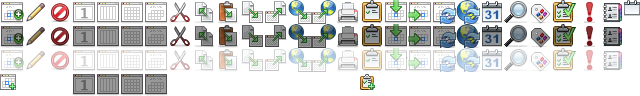
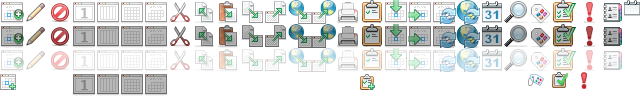
Fix bug 470824 - messagereader-style buttons in Tasks view are different heights on Windows. r=philipp

diff --git a/calendar/base/content/calendar-task-view.js b/calendar/base/content/calendar-task-view.js
@@ -60,6 +60,9 @@ var taskDetailsView = {
         var item = document.getElementById("calendar-task-tree").currentTask;
         if (displayElement("calendar-task-details-container", item != null) &&
             displayElement("calendar-task-view-splitter", item != null)) {
+
+            this._initializeToolbar();
+
             displayElement("calendar-task-details-title-row", true);
             document.getElementById("calendar-task-details-title").value =
                 (item.title ? item.title.replace(/\n/g, ' ') : "");
@@ -172,7 +175,45 @@ var taskDetailsView = {
                 }
             }
         }
-    }
+    },
+
+    /**
+     * Initialize the task actions toolbar by setting default mode, icon size,
+     * etc. if necessary and hooking up events for the customization dialog.
+     */
+    _initializeToolbar: function tDV_initializeToolbar() {
+        var toolbox = document.getElementById("task-actions-toolbox");
+        toolbox.customizeDone = function(aEvent) {
+            MailToolboxCustomizeDone(aEvent, "CustomizeTaskActionsToolbar");
+        };
+
+        var toolbarset = document.getElementById('customToolbars');
+        toolbox.toolbarset = toolbarset;
+
+        // Check whether we did an upgrade to a customizable header pane.
+        // If yes, set the header pane toolbar mode to icons besides text
+        var toolbar = document.getElementById("task-actions-toolbar");
+        if (toolbox && toolbar) {
+            if (!toolbox.getAttribute("mode")) {
+
+                /* set toolbox attributes to default values */
+                var mode = toolbox.getAttribute("defaultmode");
+                var align = toolbox.getAttribute("defaultlabelalign");
+                var iconsize = toolbox.getAttribute("defaulticonsize");
+                toolbox.setAttribute("mode", mode);
+                toolbox.setAttribute("labelalign", align);
+                toolbox.setAttribute("iconsize", iconsize);
+                toolbox.ownerDocument.persist(toolbox.id, "mode");
+                toolbox.ownerDocument.persist(toolbox.id, "iconsize");
+                toolbox.ownerDocument.persist(toolbox.id, "labelalign");
+
+                /* set toolbar attributes to default values */
+                iconsize = toolbar.getAttribute("defaulticonsize");
+                toolbar.setAttribute("iconsize", iconsize);
+                toolbar.ownerDocument.persist(toolbar.id, "iconsize");
+            }
+        }
+    },
 };
 
 

diff --git a/calendar/base/themes/winstripe/calendar-task-view.css b/calendar/base/themes/winstripe/calendar-task-view.css
@@ -145,8 +145,68 @@
     margin-bottom: 3px;
 }
 
+/* ::::: task actions toolbar ::::: */
+
+#task-actions-toolbox {
+    -moz-appearance: none;
+    -moz-padding-end: 6px;
+    padding-top: 3px;
+}
+
+#task-actions-toolbar {
+    -moz-appearance: none;
+    -moz-box-pack: end;
+    min-height: 0;
+    padding: 0;
+}
+
+#task-actions-toolbar toolbarpaletteitem toolbarseparator,
+#task-actions-toolbar toolbarseparator {
+    height: 26px;
+}
+
+#task-actions-toolbar toolbarspacer {
+    height: 20px;
+}
+
+window[toolboxId="task-actions-toolbox"] #wrapper-spring {
+    display: none;
+}
+
+window[toolboxId="task-actions-toolbox"] #smallicons,
+window[toolboxId="task-actions-toolbox"] button[icon="add"] {
+    display: none;
+}
+
+window[toolboxId="task-actions-toolbox"] #modelist menuitem:first-child {
+    display: none;
+}
+
+#task-actions-toolbox[doCustomization] {
+    background: grey;
+}
+
+#task-actions-toolbox[doCustomization] #task-actions-toolbar {
+    min-width: 100px;
+    min-height: 10px;
+}
+
+#task-actions-category {
+    list-style-image: url(chrome://calendar/skin/toolbar-small.png);
+    -moz-image-region: rect(0px, 368px, 16px, 352px);
+}
+
+#task-actions-markcompleted {
+    list-style-image: url(chrome://calendar/skin/toolbar-small.png);
+    -moz-image-region: rect(0px, 384px, 16px, 368px);
+}
+
+#task-actions-priority {
+    list-style-image: url(chrome://calendar/skin/toolbar-small.png);
+    -moz-image-region: rect(0px, 400px, 16px, 384px);
+}
+
 #calendar-delete-task-button {
-    -moz-box-orient: vertical;
     list-style-image: url(chrome://calendar/skin/toolbar-small.png);
     -moz-image-region: rect(0px, 48px, 16px, 32px);
 }

diff --git a/calendar/base/themes/pinstripe/calendar-task-view.css b/calendar/base/themes/pinstripe/calendar-task-view.css
@@ -136,8 +136,67 @@
     margin-bottom: 3px;
 }
 
+/* ::::: task actions toolbar ::::: */
+
+#task-actions-toolbox {
+    -moz-padding-end: 6px;
+    padding-top: 3px;
+}
+
+#task-actions-toolbar {
+    -moz-appearance: none;
+    -moz-box-pack: end;
+    min-width: 50px !important;
+    min-height: 14px !important;
+}
+
+#task-actions-toolbar toolbarpaletteitem toolbarseparator,
+#task-actions-toolbar toolbarseparator {
+    height: 26px;
+}
+
+#task-actions-toolbar toolbarspacer {
+    height: 20px;
+}
+
+window[toolboxId="task-actions-toolbox"] #wrapper-spring {
+    display: none;
+}
+
+window[toolboxId="task-actions-toolbox"] #smallicons,
+window[toolboxId="task-actions-toolbox"] button[icon="add"] {
+    display: none;
+}
+
+window[toolboxId="task-actions-toolbox"] #modelist menuitem:first-child {
+    display: none;
+}
+
+#task-actions-toolbox[doCustomization] {
+    background: grey;
+}
+
+#task-actions-toolbox[doCustomization] #task-actions-toolbar {
+    min-width: 100px;
+    min-height: 10px;
+}
+
+#task-actions-category {
+    list-style-image: url(chrome://calendar/skin/toolbar-small.png);
+    -moz-image-region: rect(72px, 544px, 88px, 528px);
+}
+
+#task-actions-markcompleted {
+    list-style-image: url(chrome://calendar/skin/toolbar-small.png);
+    -moz-image-region: rect(72px, 568px, 88px, 552px);
+}
+
+#task-actions-priority {
+    list-style-image: url(chrome://calendar/skin/toolbar-small.png);
+    -moz-image-region: rect(72px, 592px, 88px, 576px);
+}
+
 #calendar-delete-task-button {
-    -moz-box-orient: vertical;
     list-style-image: url(chrome://messenger/skin/icons/folder-trash.png);
 }
 
